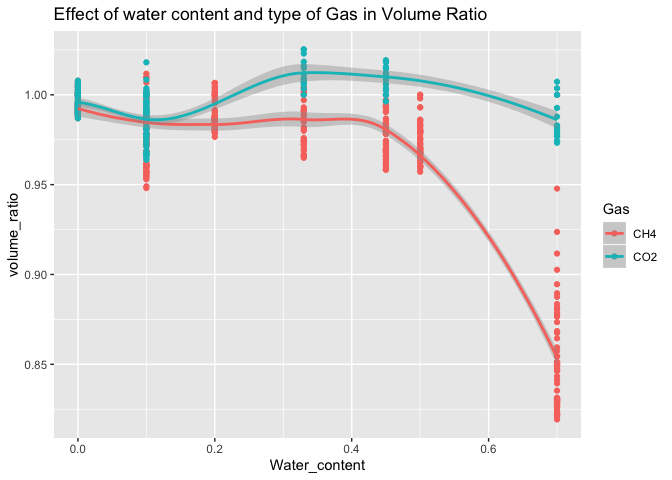
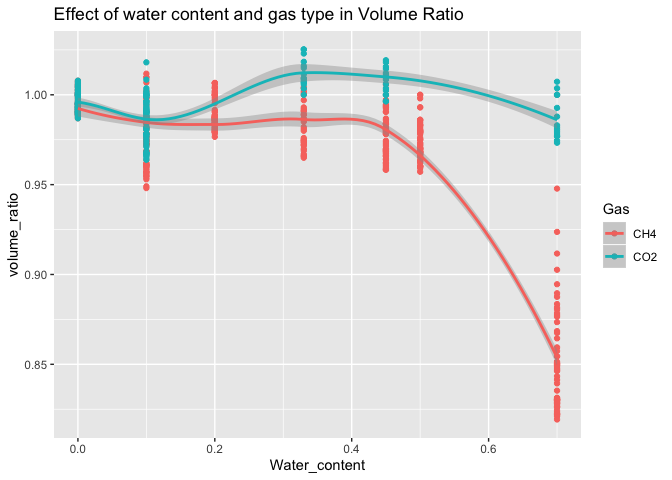
minor editing for the plots

Changed region(s): [[0.4062, 0.0, 0.7188, 0.0625]]

diff --git a/modeling_ift_r.md b/modeling_ift_r.md
@@ -38,7 +38,7 @@ ggplot(ift_data, aes(Water_content, IFT,color = Gas) ) +
 ggplot(ift_data, aes(Water_content, volume_ratio
                      ,color = Gas),
        ) +
-  ggtitle("Effect of water content and type of Gas in Volume Ratio")+
+  ggtitle("Effect of water content and gas type in Volume Ratio")+
   geom_point() +
   stat_smooth()
 ```
